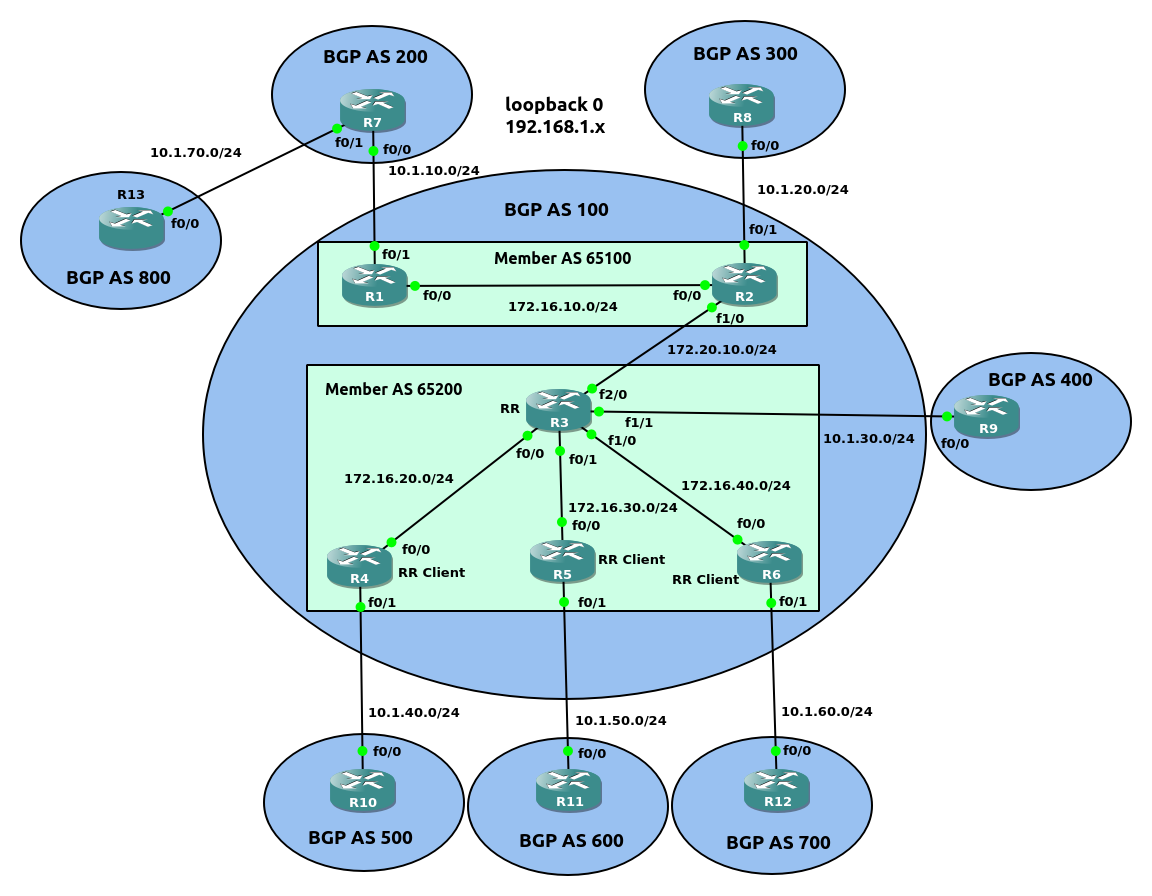
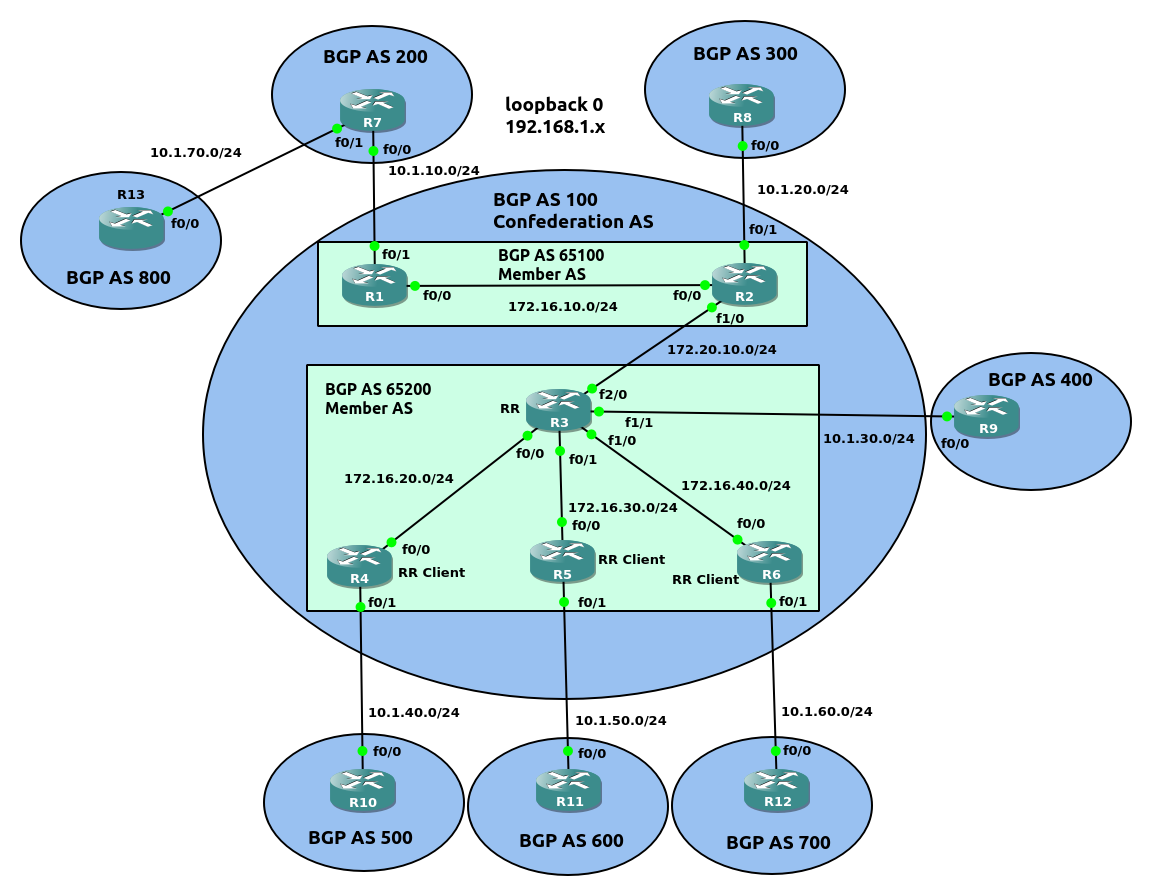
2024-04-01_01

Changed region(s): [[0.4062, 0.2188, 0.5625, 0.3125], [0.2812, 0.4062, 0.4062, 0.4688]]

diff --git a/network/10.bgp.md b/network/10.bgp.md
@@ -1177,7 +1177,27 @@ CLUSTER_LIST(optional non-transitive, code 10)
 
 
 2)Confederation<br>
-使用sub AS作为成员AS, 并且sub AS通常为private ASN<br>
+使用sub AS作为成员AS, 并且sub AS通常为private ASN
+<br>
+<br>
+
+BGP confederation新引进attribute:<br>
+1.AS_CONFED_SEQUENCE<br>
+
+2.AS_CONFED_SET
+<br>
+<br>
+
+BGP confederation特征:<br>
+1.member AS speaker接收的AS_PATH包含condederation AS number或own member AS number时, 视为loop<br>
+
+2.NEXT_HOP在confederation AS内不会改变(参考例7)<br>
+
+3.MED和LOCAL_PREF可以在confederation AS内传播<br>
+
+4.在Path Selection中, AS_CONFED_SEQUENCE和AS_CONFED_SET不计入AS_PATH长度统计
+<br>
+<br>
 
 配置步骤:<br>
 [1] 配置bgp<br>
@@ -1194,7 +1214,7 @@ CLUSTER_LIST(optional non-transitive, code 10)
 图14<br>
 ![image_not_found](pic/bgp_06.png)<br>
 
-示例5(如图14)
+示例7(如图14)
 ```
 配置OSPF
 R1(config)# router ospf 1 
@@ -1313,16 +1333,64 @@ R13(config)# router bgp 800
 R13(config-router)# neighbor 10.1.70.7 remote-as 200
 R13(config-router)# network 192.168.1.13 mask 255.255.255.255
 R13(config-router)# network 10.1.70.0 mask 255.255.255.0
+
+
+
+AS_PATH规则
+1.当NLRI传递给当前member AS内的路由器时, 不对AS_PATH做修改
+
+验证
+R4# show bgp ipv4 unicast | include Network|192.168.1.10
+     Network          Next Hop            Metric LocPrf Weight Path
+ *>  192.168.1.10/32  10.1.40.10               0             0 500 i
+
+R3# show bgp ipv4 unicast | include Network|192.168.1.10
+     Network          Next Hop            Metric LocPrf Weight Path
+ *>i 192.168.1.10/32  10.1.40.10               0    100      0 500 i
+
+
+2.当NLRI传递给other memeber AS(in the confederation AS), 将当前member AS prepend到AS_PATH(in AS_CONFED_SEQUENCE)
+
+验证
+R3# show bgp ipv4 unicast | include Network|192.168.1.10
+     Network          Next Hop            Metric LocPrf Weight Path
+ *>i 192.168.1.10/32  10.1.40.10               0    100      0 500 i
+
+R2# show bgp ipv4 unicast | include Network|192.168.1.10
+     Network          Next Hop            Metric LocPrf Weight Path
+ *>  192.168.1.10/32  10.1.40.10               0    100      0 (65200) 500 i
+
+
+3.当NLRI传递给其他AS(not int the condeferation AS), 移除AS_CONFED_SEQUENCE, 添加confederation AS(in AS_SEQUENCE)
+
+验证
+R2# show bgp ipv4 unicast | include Network|192.168.1.10
+     Network          Next Hop            Metric LocPrf Weight Path
+ *>  192.168.1.10/32  10.1.40.10               0    100      0 (65200) 500 i
+
+R8# show bgp ipv4 unicast | include Network|192.168.1.10
+     Network          Next Hop            Metric LocPrf Weight Path
+ *>  192.168.1.10/32  10.1.20.2                              0 100 500 i
+
+
+
+NEXT_HOP在confederation AS内不会变化
+
+验证
+R4# show bgp ipv4 unicast | include Network|192.168.1.10
+     Network          Next Hop            Metric LocPrf Weight Path
+ *>  192.168.1.10/32  10.1.40.10               0             0 500 i
+
+R3# show bgp ipv4 unicast | include Network|192.168.1.10
+     Network          Next Hop            Metric LocPrf Weight Path
+ *>i 192.168.1.10/32  10.1.40.10               0    100      0 500 i
+
+R2# show bgp ipv4 unicast | include Network|192.168.1.10
+     Network          Next Hop            Metric LocPrf Weight Path
+ *>  192.168.1.10/32  10.1.40.10               0    100      0 (65200) 500 i
 ```
 <br>
 <br>
-<br>
-<br>
-<br>
-<br>
-
-
-
 
 ##### BGP路由汇总
 汇总配置语法
